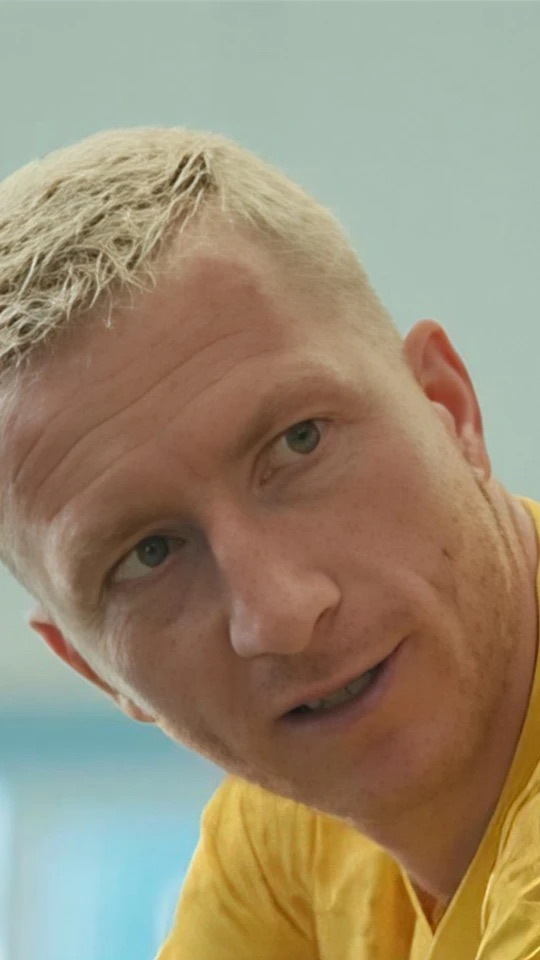
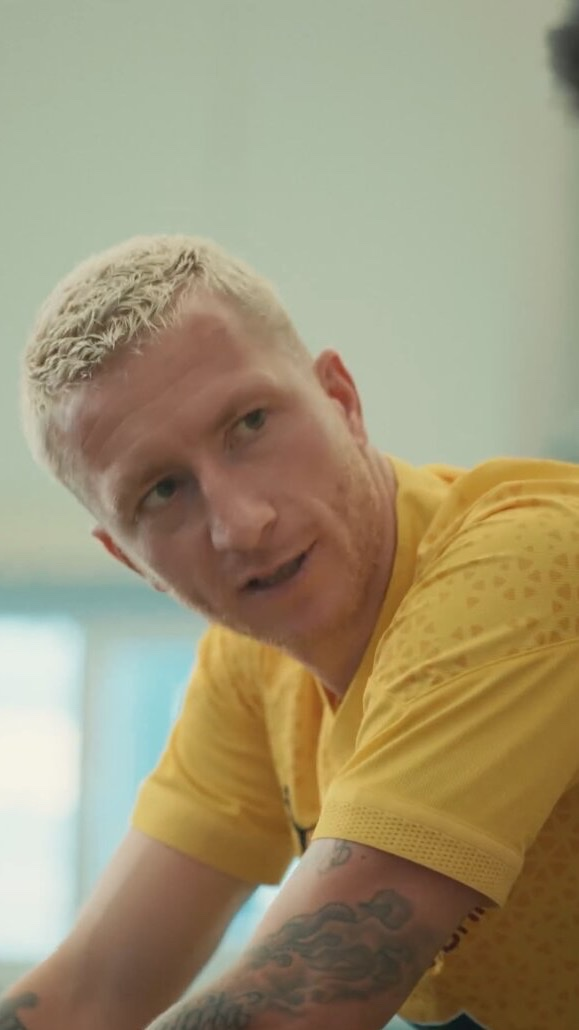
Neues Standbild fuer das BVB-Video
Die gelieferte Datei zeigt weiter als die alte — Kopf, Schulter,
taetowierter Arm statt nur Gesicht. Sie ersetzt das bisherige Poster.

Drei Eingriffe waren noetig:

ZEIGER RAUS. Die Datei war ein Bildschirmfoto, unten rechts stand ein
Mauszeiger (599x1074, Zeiger bei etwa x 504, y 1049). Der Beschnitt
schneidet unten so weit weg, dass er fehlt.

AUF 9:16. 599x1074 ergibt 0,5577, der Rahmen der Videowand steht auf
0,5625. Ohne Korrektur haette der Rahmen oben und unten beschnitten.
Jetzt 579x1030 = 0,5621.

NAME. Die Datei hiess bvb-poster.jpg. Videowand.astro sucht das
Standbild aber unter <ordner>/<vimeo-id>.jpg — unter dem alten Namen
waere die Kachel stillschweigend leer geblieben. Jetzt 880446770.jpg.

Der enge Ausschnitt von vorher waere aus dieser Datei nur 323x571
gross gewesen und damit weicher als das Poster, das online stand: Das
neue Bild zeigt mehr Szene bei gleicher Dateigroesse, also weniger
Bildpunkte je Gesicht. Deshalb der weitere Ausschnitt — 579px auf 416px
Anzeigebreite sind 1,39x statt 0,78x.

Die Startseiten-Kachel bleibt der enge Gesichtsausschnitt. Kachel und
Poster zeigen jetzt dieselbe Einstellung unterschiedlich weit; in
docs/bildmaterial.md steht, welche wo liegt.

diff --git a/docs/bildmaterial.md b/docs/bildmaterial.md
@@ -97,10 +97,23 @@ behält davon nur die mittleren 45 % der Breite. Es geht auf, weil die Frau
 fast genau mittig steht, bleibt aber ein Beschnitt aus einem Beschnitt.
 Sobald eine echte 4:5-Fassung aus dem Schnitt vorliegt, gehört sie hierher.
 
-**Das BVB-Standbild dient doppelt**: als Kachel unter `work/` und als
-Standbild der Videoseite unter `bvb-ea-sports/poster/880446770.jpg`. Es ist
-kein Vimeo-Thumbnail — die Seite lädt nichts von einem fremden Server,
+**BVB hat zwei verschiedene Standbilder**, beide aus derselben Einstellung:
+`work/bvb-ea-sports.webp` zeigt eng nur das Gesicht und ist die Kachel auf
+der Startseite, `bvb-ea-sports/poster/880446770.jpg` zeigt weiter — Kopf,
+Schulter, tätowierter Arm — und ist das Standbild der Videoseite. Keines
+ist ein Vimeo-Thumbnail; die Seite lädt nichts von einem fremden Server,
 bevor jemand auf Play drückt.
+
+**Der Dateiname des Posters ist Pflicht**, nicht Geschmack: `Videowand.astro`
+sucht das Standbild unter `<posterordner>/<vimeo-id>.jpg`. Ein Poster, das
+anders heißt, wird stillschweigend nicht geladen — die Kachel bleibt leer.
+Beim Austauschen also den Namen behalten.
+
+**Die gelieferte Fassung des Posters war ein Bildschirmfoto** mit einem
+Mauszeiger unten rechts (599 × 1074, Zeiger bei etwa x 504, y 1049). Die
+hier liegende Datei ist auf 579 × 1030 beschnitten: unten so weit weg, dass
+der Zeiger fehlt, seitlich so weit, dass 9:16 stimmt. Wer das Poster
+ersetzt, sollte auf beides achten.
 
 **Die beiden Reel-Standbilder sind knapp bemessen.** Sie sind nur 540 px
 breit, die Kachel steht auf großen Schirmen 408 px breit — das reicht für
